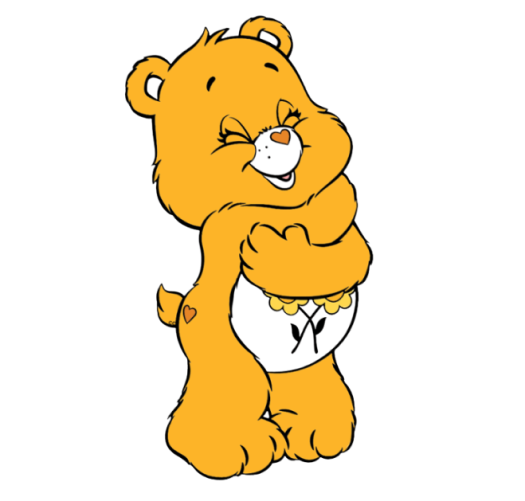
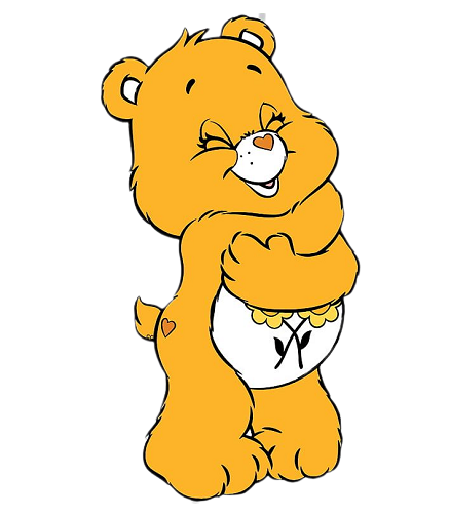
modified carebear images and updated attack/damage skills bar

Changed region(s): [[0.2178, 0.0299, 0.8089, 0.988], [0.3733, 0.1497, 0.4356, 0.1796]]

diff --git a/index.html b/index.html
@@ -169,7 +169,7 @@
           <div class="flip-card">
             <div class="flip-card-inner">
               <div class="flip-card-front">
-                <img src="assets/images/carebears/grumpybear.png" alt="GrumpyBearAvatar" style="width:300px;height:300px;">
+                <img src="assets/images/carebears/grumpy-bear.png" alt="GrumpyBearAvatar" style="width:300px">
               </div>
               <div class="flip-card-back">
                 <h1>Grumpy Bear</h1> 
@@ -183,6 +183,7 @@
                 <div class="container">
                   <div class="skills GBdamagePercent">Attack: 6</div>
                 </div>
+                <br>
                 <button class="character1">Click Here</button>
               </div>
             </div>
@@ -193,7 +194,7 @@
           <div class="flip-card">
             <div class="flip-card-inner">
               <div class="flip-card-front">
-                <img src="assets/images/carebears/lovealotbear.png" alt="LovealotBearAvatar" style="width:300px;height:300px;">
+                <img src="assets/images/carebears/lovealot-bear.png" alt="LovealotBearAvatar" style="width:300px">
               </div>
               <div class="flip-card-back">
                 <h1>Love-a-lot Bear</h1> 
@@ -201,12 +202,13 @@
                 <p>We love that guy</p>
                 <p></p>
                 <div class="container">
-                  <div class="skills PHhealthPercent">Defense: 7</div>
+                  <div class="skills LALBhealthPercent">Defense: 7</div>
                 </div>
                 <p></p>
                 <div class="container">
-                  <div class="skills PHdamagePercent">Attack: 3</div>
+                  <div class="skills LALBdamagePercent">Attack: 3</div>
                 </div>
+                <br>
                 <button class="character2">Click Here</button>
               </div>
             </div>
@@ -217,7 +219,7 @@
           <div class="flip-card">
             <div class="flip-card-inner">
               <div class="flip-card-front">
-                <img src="assets/images/carebears/funshine.png" alt="FunshineBearAvatar" style="width:300px;height:300px;">
+                <img src="assets/images/carebears/funshine-bear.png" alt="FunshineBearAvatar" style="width:300px">
               </div>
               <div class="flip-card-back">
                 <h1>Funshine Bear</h1> 
@@ -225,12 +227,13 @@
                 <p>We love that guy</p>
                 <p></p>
                 <div class="container">
-                  <div class="skills BBhealthPercent">Defense: 4</div>
+                  <div class="skills FSBhealthPercent">Defense: 4</div>
                 </div>
                 <p></p>
                 <div class="container">
-                  <div class="skills BBdamagePercent">Attack: 5</div>
+                  <div class="skills FSBdamagePercent">Attack: 5</div>
                 </div>
+                <br>
                 <button class="character3">Click Here</button>
               </div>
             </div>
@@ -241,7 +244,7 @@
           <div class="flip-card">
             <div class="flip-card-inner">
               <div class="flip-card-front">
-                <img src="assets/images/carebears/friend-bear.png" alt="FriendBearAvatar" style="width:300px;height:300px;">
+                <img src="assets/images/carebears/friend-bear.png" alt="FriendBearAvatar" style="width:300px">
               </div>
               <div class="flip-card-back">
                 <h1>Friend Bear</h1> 
@@ -249,12 +252,13 @@
                 <p>We love that guy</p>
                 <p></p>
                 <div class="container">
-                  <div class="skills SBhealthPercent">Defense: 4</div>
+                  <div class="skills FBhealthPercent">Defense: 5</div>
                 </div>
                 <p></p>
                 <div class="container">
-                  <div class="skills SBdamagePercent">Attack: 5</div>
+                  <div class="skills FBdamagePercent">Attack: 4</div>
                 </div>
+                <br>
                 <button class="character4">Click Here</button>
               </div>
             </div>
@@ -265,7 +269,7 @@
           <div class="flip-card">
             <div class="flip-card-inner">
               <div class="flip-card-front">
-                <img src="assets/images/carebears/cheer-bear.png" alt="CheerBearAvatar" style="width:300px;height:300px;">
+                <img src="assets/images/carebears/cheer-bear.png" alt="CheerBearAvatar" style="width:300px">
               </div>
               <div class="flip-card-back">
                 <h1>Cheer Bear </h1> 
@@ -273,11 +277,11 @@
                 <p>We love that guy</p>
                 <p></p>
                 <div class="container">
-                  <div class="skills SBhealthPercent">Defense: 6</div>
+                  <div class="skills CBhealthPercent">Defense: 6</div>
                 </div>
                 <p></p>
                 <div class="container">
-                  <div class="skills SBdamagePercent">Attack: 2</div>
+                  <div class="skills CBdamagePercent">Attack: 2</div>
                 </div>
                 <button class="character5">Click Here</button>
               </div>

diff --git a/howtoplay.html b/howtoplay.html
@@ -1,17 +1,9 @@
 <!DOCTYPE html>
-<<<<<<< Updated upstream
-=======
-<html> <!--<?php language_attributes(); ?>>-->
->>>>>>> Stashed changes
 <head>
     <meta charset="UTF-8">
     <meta name="viewport" content="width=device-width, initial-scale=1.0">
     <meta http-equiv="X-UA-Compatible" content="ie=edge">
     <link rel="stylesheet" href="./assets/css/howtoplay.css">
-<<<<<<< Updated upstream
-=======
-    <!--<link href="index.php">-->
->>>>>>> Stashed changes
     <link href="./intro.html">
     <title>Carebare Game</title>
 </head>
@@ -33,9 +25,8 @@
         <div class="bg-text">
           <h2>Wanna Play a Game?</h2>
           <br>
-<<<<<<< Updated upstream
           <form id=userinput>
-            How old are you? <input type="number" id="age" name="age" min=1 max=100>
+            How old are you? <input type="number" id="age" name="age">
             <input type="submit" value="Submit" id="submit" onclick="play()">
           </form>
           <br>
@@ -52,23 +43,3 @@
         <script src="assets/javascript/howtoplay.js"></script>
 </body>
 </html>
-=======
-          <p><span class="error">* required field</span></p>
-          <!-- <form method="post" action="http://server.dom/cgi/handle">  
-            What is your name? <input type="text" name="user_name">
-            <span class="error">* <?php echo $user_nameErr;?></span>
-            <br><br>
-            <?php
-              echo $name;
-              echo "<br>";
-              ?> -->
-
-          <!-- Welcome <?php echo $name; ?> -->
-          <form> <!--action="/index.php" method="POST"-->
-            What is your birthdate? <input type="date" name="user_dob"><br>
-            <input type="submit">
-          </form>
-         <!-- <button onclick="window.location.href = './intro.html';"> <h1 style="font-size:80px">Enter Here</h1> </button> -->
-        <script src="https://ajax.googleapis.com/ajax/libs/jquery/3.2.1/jquery.min.js"></script>
-        <script src="assets/javascript/howtoplay.js"></script>
->>>>>>> Stashed changes

diff --git a/assets/css/characards.css b/assets/css/characards.css
@@ -73,6 +73,13 @@
   from {top: -300px; opacity: 0}
   to {top: 0; opacity: 1}
 }
+.center {
+  display: block;
+  margin-left: auto;
+  margin-right: auto;
+  width: 50%;
+}
+
 /* The flip card container - set the width and height to whatever you want. We have added the border property to demonstrate that the flip itself goes out of the box on hover (remove perspective if you don't want the 3D effect */
 .flip-card {
   background-color: transparent;
@@ -134,17 +141,25 @@
   color: white; /* White text color */
 }
 
-/*GRUMPY BEAR SPECIFIC Health and Damage */
+/*GRUMPY BEAR SPECIFIC */
 .GBhealthPercent {width: 35%; background-color: #4CAF50;} /* Green */
 .GBdamagePercent {width: 65%; background-color: #f44336;} /* Red */
 
-/*PINK HEART BEAR SPECIFIC Health and Damage */
-.PHhealthPercent {width: 75%; background-color: #4CAF50;} /* Green */
-.PHdamagePercent {width: 35%; background-color: #f44336;} /* Red */
+/*Love-a-lot BEAR SPECIFIC */
+.LALBhealthPercent {width: 75%; background-color: #4CAF50;} /* Green */
+.LALBdamagePercent {width: 35%; background-color: #f44336;} /* Red */
 
-/*BIRTHDAY BEAR SPECIFIC Health and Damage */
-.BBhealthPercent {width: 40%; background-color: #4CAF50;} /* Green */
-.BBdamagePercent {width: 50%; background-color: #f44336;} /* Red */
+/*FUNSHINE BEAR SPECIFIC */
+.FSBhealthPercent {width: 40%; background-color: #4CAF50;} /* Green */
+.FSBdamagePercent {width: 50%; background-color: #f44336;} /* Red */
+
+/*FRIEND BEAR SPECIFIC*/
+.FBhealthPercent {width: 50%; background-color: #4CAF50;} /* Green */
+.FBdamagePercent {width: 40%; background-color: #f44336;} /* Red */
+
+/*CHEER BEAR SPECIFIC Health and Damage */
+.CBhealthPercent {width: 60%; background-color: #4CAF50;} /* Green */
+.CBdamagePercent {width: 20%; background-color: #f44336;} /* Red */
 
 #characterBtn:hover {
 cursor: pointer;
